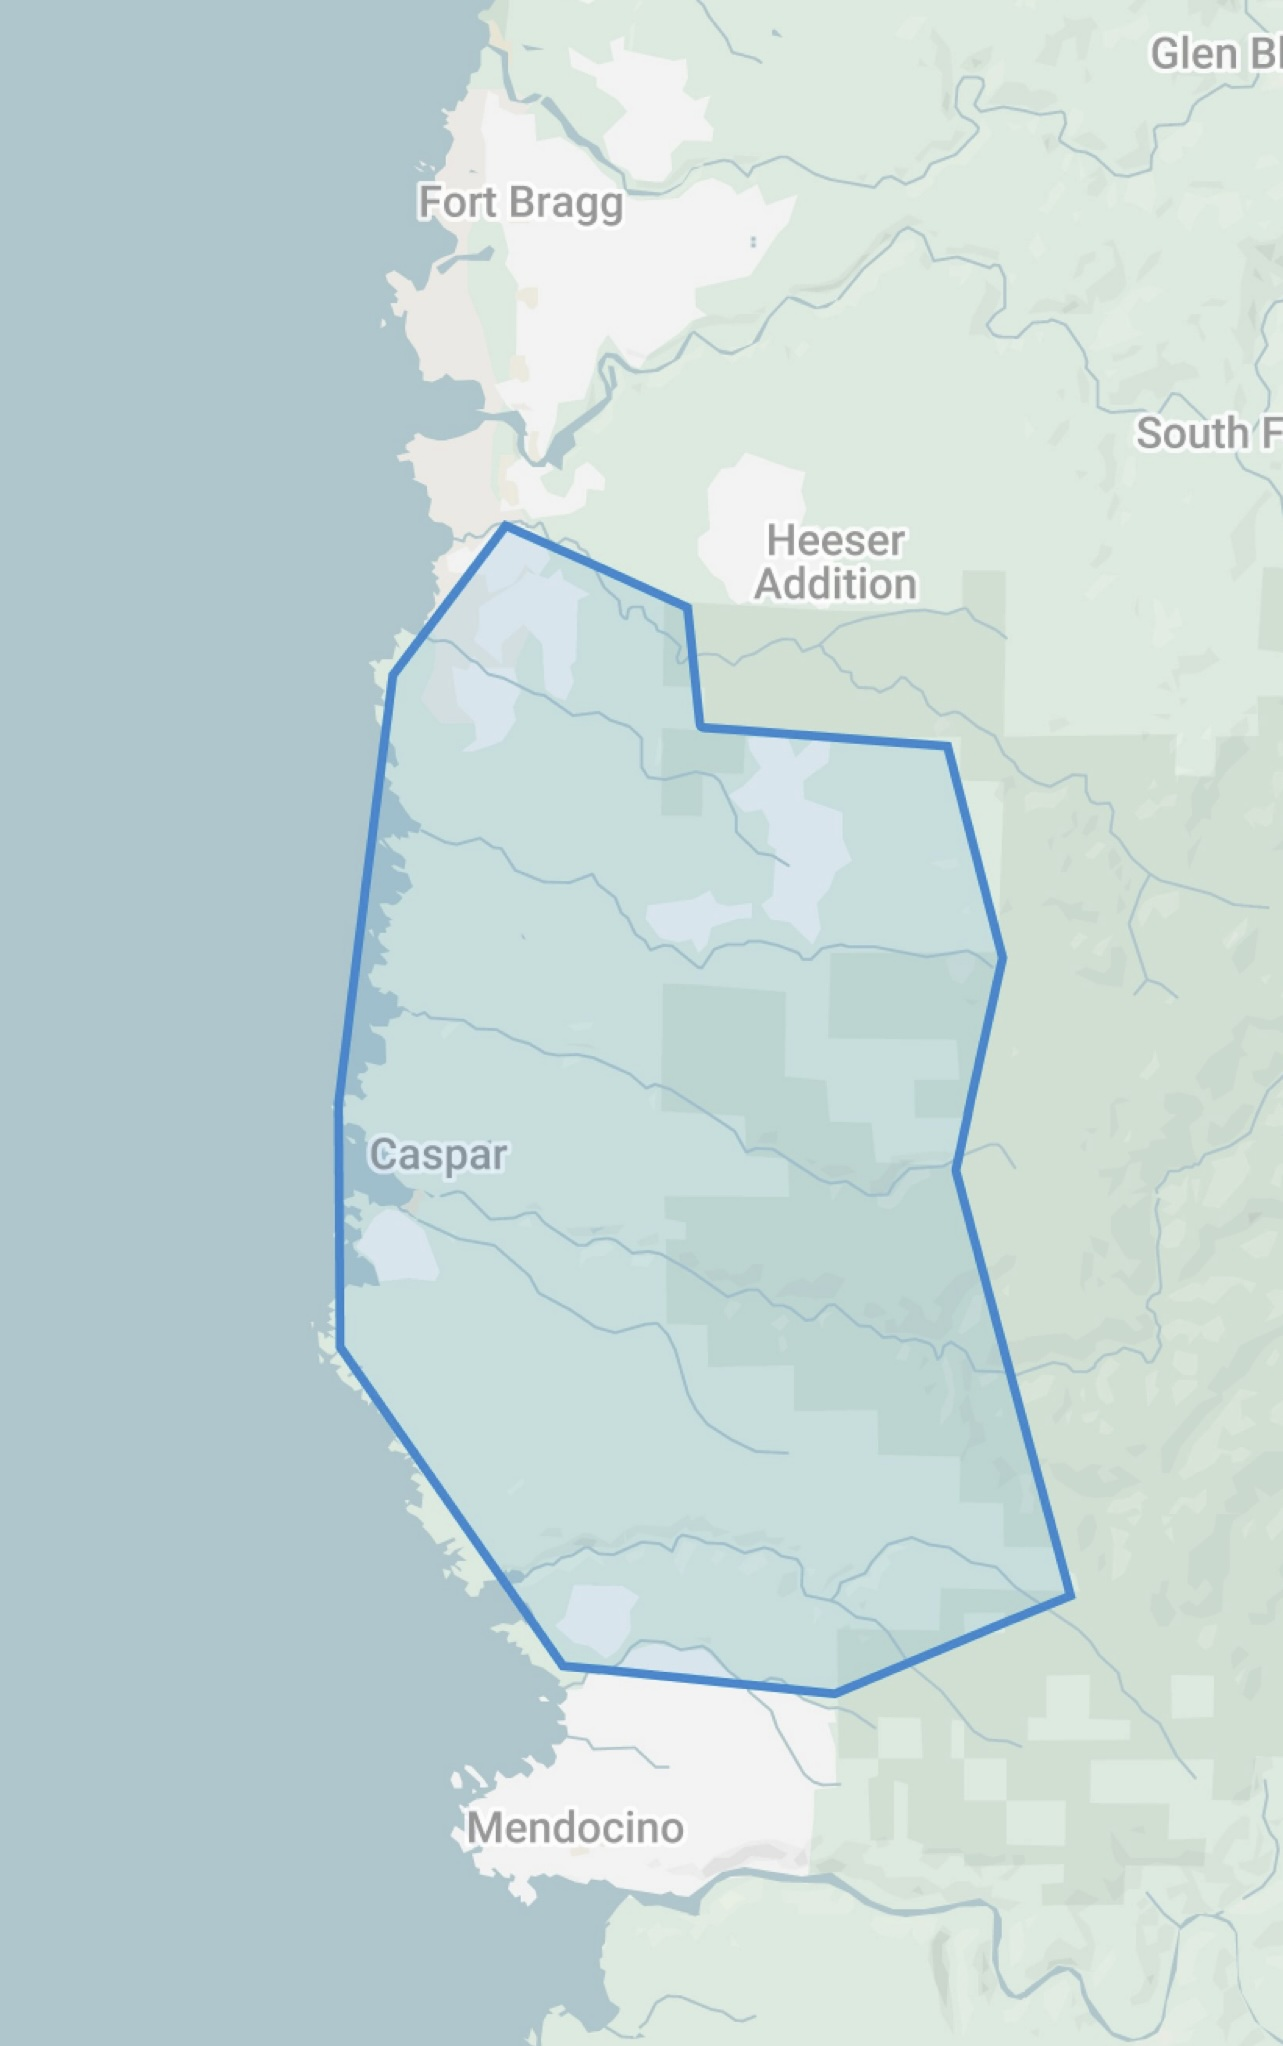
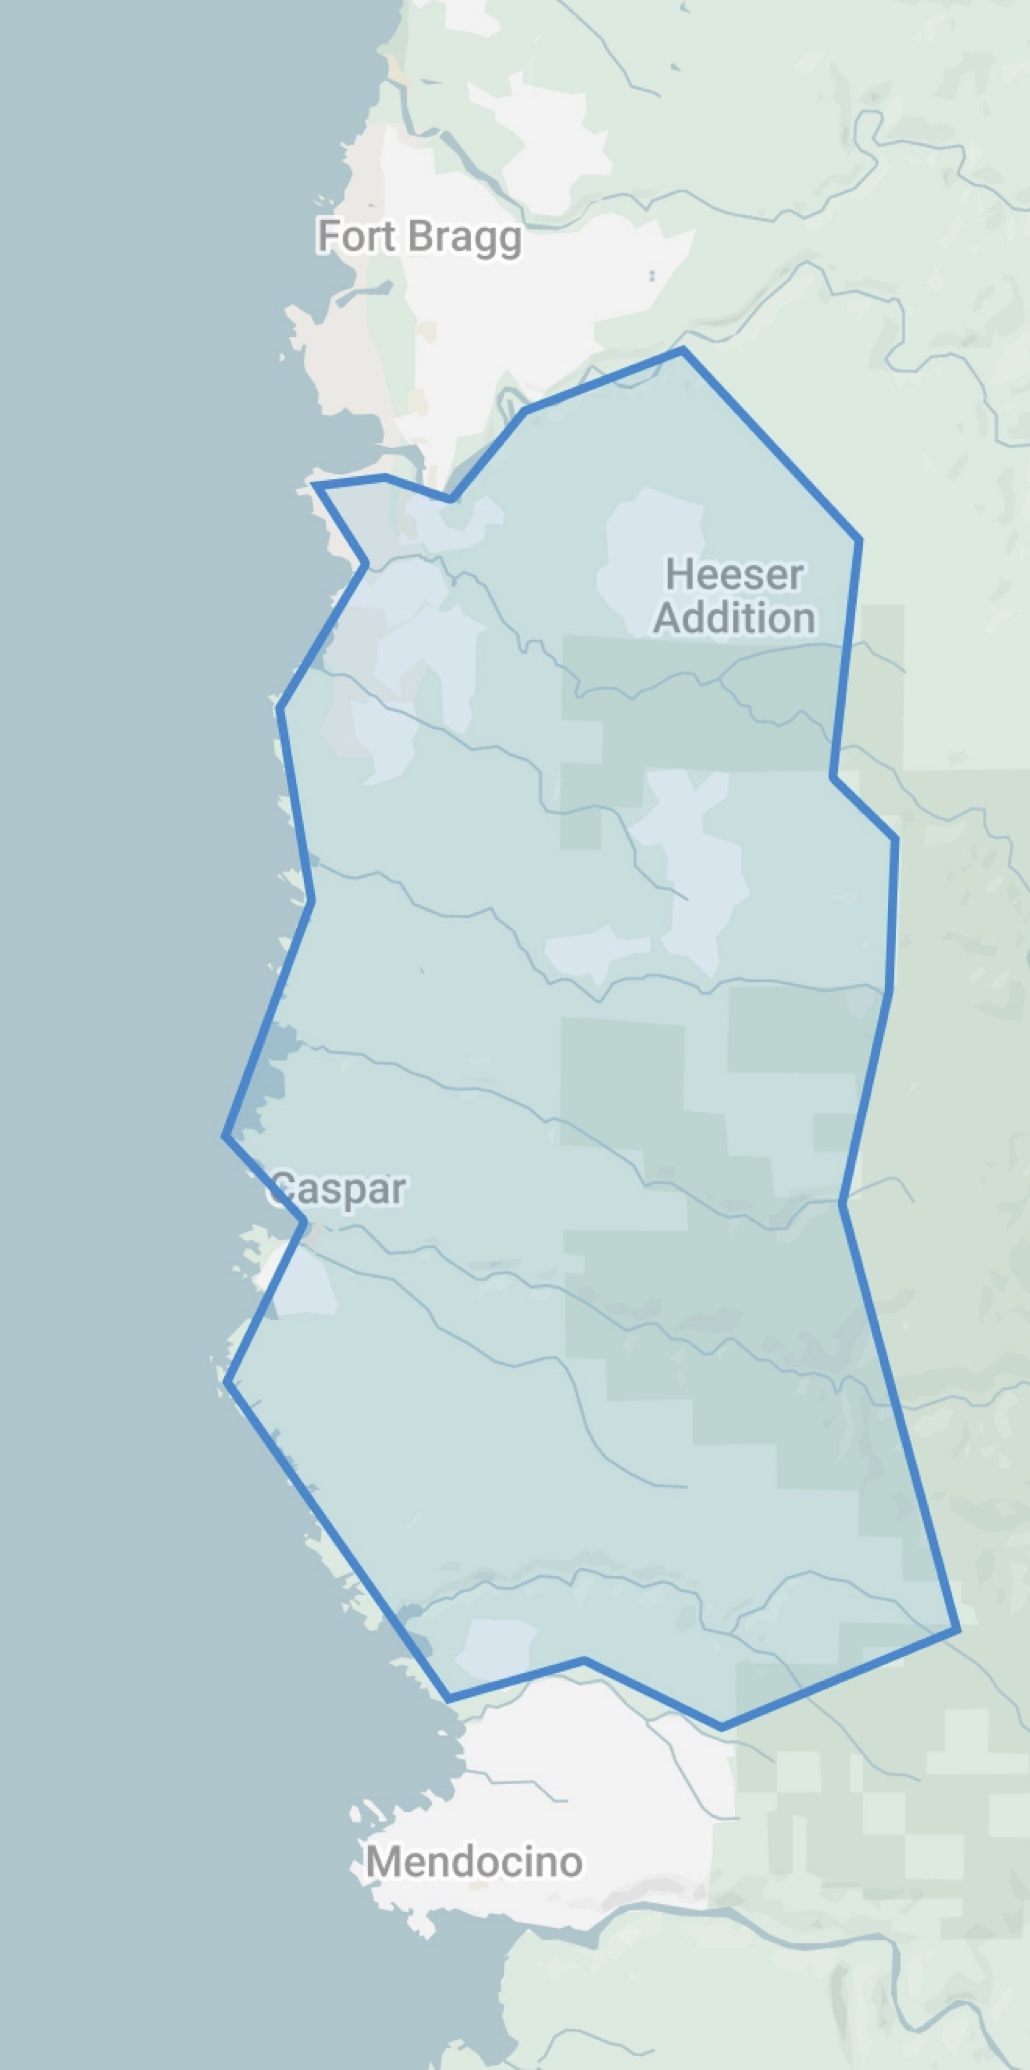
politic

diff --git a/site/index.html b/site/index.html
@@ -179,6 +179,7 @@
         </nav>
         
         <section id="politics" class="content-section active">
+
           <h2 class="section-title">Politics</h2>
 
 	  <p>Caspar Water System is regulated by a number of public
@@ -204,15 +205,15 @@
 		be enacted to preserve the character of the
 		town.</em></p></div>
 
-	  <p>When we became owner of the Caspar Water property in
+	  <p>When we became owners of the Caspar Water property in
 	    2021, Mendocino had been having a bad
 	    drought. Economically speaking, the village in Mendocino
 	    turns water into money through its restaurants and hotels,
 	    and we received calls that summer from hotel investors and
 	    government economic development officers. People's wells
-	    were going dry, water trucks were hauling 50 mile
-	    round-trips fetching water for the coast, and Caspar has a
-	    surplus.</p>
+	    were going dry, water trucks were hauling 100 mile
+	    round-trips fetching water for the coast, and Caspar was
+	    running a surplus.</p>
 
 	  <h3>Caspar is a ghost town</h3>
 
@@ -222,14 +223,139 @@
 	  <p>A residential development built in the 1920s was still
 	    standing when the mill closed. Sixteen houses from this
 	    development were demolished in the 1960s to make way for
-	    Highway 1 when the Caspar Creek bridge was built. At least
-	    five more of these homes burned down in the 1970s, leaving
-	    only four homes from the original development today, still
-	    connected to the water system.</p>
+	    Highway 1 when the Caspar Creek bridge was built, and five
+	    more of these homes burned down in the 1970s.  Four homes
+	    from the original development are standing today.</p>
+
+	  <p>Development on the California coast is heavily
+	    restricted, aiming to limit change and preserve tourism
+	    value, and the regulation started immediately after a
+	    severe decline in Caspar. We have the appearance of a
+	    town, with a center and a dense cluster of houses, but
+	    many of the houses are vacant, dilapidated or condemned.
+	    Three of Caspar Water's service connections are not in use
+	    and three of them are short-term rentals or used as second
+	    homes.</p>
+
+	  <p>When the Coastal Commission sees a permit application in
+	    Caspar, they see a request for new development, and they
+	    follow the rules. When we're asked to do an archeological
+	    survey, we're surveying a place where people have lived
+	    continuously for over 100 years. When we're asked to do a
+	    botanical survey, we're surveying land that the lumber
+	    company <em>tore up</em>, covered in invasive species.</p>
+
+	  <p>In rural areas like Caspar, sewage is a problem. Modern
+	    planning code forces rural homes to be far apart, so that
+	    each can have its own septic field and a private
+	    well. Separately, we know that a drinking water source
+	    cannot be anywhere near a septic system. The problem of
+	    rebuilding Caspar is that many of our vacant houses lack
+	    both a water connection and enough land to place a septic
+	    field.</p>
+
+	  <p>To develop homes in Caspar village, we're going to need a
+	    sewage system.  To connect new homes to the water system
+	    requires replacing water mains and a new operating permit.
+	    To add the connection count needed to make the water and
+	    sewage systems sustainable, we will need zoning changes
+	    from the County, approval from the Coastal commission, and
+	    commitment from the land owners. Still, unless all of
+	    those homes are occupied by permanent residents, Caspar
+	    will continue having a surplus of water.<p>
+
+	  <p>Under the circumstances, Caspar is likely to remain a
+	    ghost town.  Highly scenic place.</p>
+
+	  <h3>Mendocino Coast: let's make a water district</h3>
+
+	  <p>Caspar is not the only Mendocino logging village with a
+	    historic water system.</p>
+
+	  <div class="indented"><p><b>Elk County Water District</b><br><em>
+		The Elk County Water District (ECWD) was formally created on
+		April 22, 1957, when the Mendocino County Board of
+		Supervisors issued a "Statement of Creation". The ECWD took
+		over an existing town water system that had been in
+		operation since before 1900.</em></p></div>
+
+            <div style="float: right; margin-left: 20px; max-width: 500px; text-align: center;">
+                <a href="./img/district-proposed.jpg" target="_blank">
+                    <img src="./img/district-proposed.jpg" alt="Proposed district boundary" style="width: 100%; height: auto; border-radius: 5px;">
+                </a>
+                <p style="font-size: 0.75rem; color: var(--caption-color); margin-top: 5px;">
+		  Proposed water district boundary, approximately 25 square miles.</p>
+            </div>
+
+	  <p><a href="https://norcalpublicmedia.org/2025022897573/news-feed/mendocino-county-supervisors-reject-ordinance-to-regular-water-extraction-and-selling">
+	      Mendocino supervisors have several times in recent years
+	      rejected proposed ordinance to restrict water hauling
+	      within the County.</a> Water districts present a different
+	      solution to this problem, because water districts can
+	      fund themselves, and because they present a local
+	      solution to a local problem. First, we should recognize
+	      that water hauling is two concerns in one: agricultural
+	      water and drinking water.</p>
+	    
+	  <p>A water district on the Mendocino coast stretching from
+	    Fort Bragg to Mendocino village, with Caspar at the
+	    center, would have the power to restrict water hauling
+	    within its boundary and to set terms for water use by
+	    short-term rentals, for example. At the same time,
+	    residents of the proposed water district would have access
+	    to safe drinking water hauled from its water trucking
+	    station at Fern Creek and Highway 1. A district of this
+	    size would absorb the Caspar South and Surfwood water
+	    systems.</p>
+
+	  <h3>Caspar: Let's have smart growth</h3>
+
+	  <p>The idea of a water district centered in Caspar is meant
+	    to solve a <em>cyclic dependency</em>.  Development
+	    depends on zoning, zoning depends on water, and water
+	    depends on re-development. A water district covering the
+	    mid-Mendocino Coast can solve the need for drinking water
+	    outside of just Caspar, and it would mean having a board
+	    of directors overseeing our shared water resource.
+	  </p>
+
+	  <p>The proposed water district could fund itself using
+	    long-term financial arrangements, solar and land-trust
+	    development on the land it would own, and it would turn a
+	    small profit from operating three water systems and direct
+	    water sales for qualified homes in the district.</p>
 
 	  <p>
-	  </p>
-	  
+	    With a water district in place, we can break the cyclic
+	    dependency using a special zoning district. The image
+	    below shows what it would look like to grow the Caspar
+	    Water system to 50 connections by permitting 10 new homes
+	    west of the highway, 5 new homes east of the highway, and
+	    connecting up to 25 existing homes within the sphere of
+	    influence. Caspar village residents would reduce their
+	    risk of septic contamination in their drinking water.<p>
+
+            <div style="max-width: 1200px; text-align: center;">
+                <a href="./img/system-proposed.jpg" target="_blank">
+                    <img src="./img/system-proposed.jpg" alt="Proposed water system" style="width: 100%; height: auto; border-radius: 5px;">
+                </a>
+                <p style="font-size: 0.75rem; color: var(--caption-color); margin-top: 5px;">
+		  Proposed 50-connection water system in the Caspar village.</p>
+            </div>
+
+	  <p>The Elk district has been led for many years by a man
+	    named Charlie Acker who is widely respected on the coast,
+	    but Elk is not our only model. Point Arena is another
+	    small historic public water system on the Mendocino Coast, 
+	    but its water system is owned and operated by a private
+	    individual named Billy Hay.</p>
+
+	  <p>Caspar will try to develop itself either way.  Form a
+	    water district and you will have a new public water supply
+	    on the Coast, you might even attract another
+	    Charlie. Don't form a water district and you have a just
+	    another private water system, you might even attract
+	    another Billy.</p>
 
         </section>
         
@@ -237,7 +363,9 @@
           <h2 class="section-title">Blog</h2>
 	  <p>🚧 Caspar Water doesn't have a blog about water in
 	    Caspar. If we did, there's surely a rumor or two, about
-	    wells going dry or drill-rigs spotted drilling new wells.</p>
+	    wells going dry or drill-rigs spotted drilling new
+	    wells. We could keep you posted on the proposed Fern Creek
+	    solar development.</p>
 
 	  <p>🚧 A blog about software, though? The owner/operator
 	    could tell you that he works in open-source software,
@@ -245,6 +373,7 @@
 	    OpenTelemetry project, and other things about himself. He
 	    could talk about what a free, open-source water operating
 	    system would look like.</p>
+
         </section>
 
         <section id="history" class="content-section">
@@ -269,24 +398,38 @@
             water system developed during this period served the
             community's growing needs.</p>
           
-            <p>Over the decades, our water system has evolved through
-              a number of ground water and surface water sources. Long-time
-              residents still recall the prominent three-level water
-              tower that once stood as a landmark in the community.</p>
+          <p>Over the decades, our water system has evolved through
+            a number of ground water and surface water sources. Long-time
+            residents still recall the prominent three-level water
+            tower that once stood as a landmark in the community.</p>
             
-            <p>When the lumber mill closed, many of the town's
-              original structures were dismantled, but the water
-              system infrastructure remained and continued to develop
-              to serve the changing community. Today's water system is
-              classified as a County "small water system", serving a
-              community with fewer than 15 connections.</p>
+          <p>When the lumber mill closed, many of the town's
+            original structures were dismantled, but the water
+            system infrastructure remained and continued to develop
+            to serve the changing community. Today's water system is
+            classified as a County "small water system", serving a
+            community with fewer than 15 connections.</p>
+	    
+	  <p>The Caspar duck pond, across Fern Creek Road from our
+	    former water trucking station, serves as a year-round
+	    reminder of Caspar's reputation for being wet. Many on the
+	    coast still remember the drought of 1975, recalling how
+	    Caspar gave away water that summer.</p>
 
-	    <p>Until 2010, the Caspar water system also operated a
-	      trucking station from a second well near Highway 1, but
-	      the system did not have sufficient treatment and was
-	      closed by the California division of drinking water.
-	      Today, the former trucking station and well are being
-	      used for goat farming.</p>
+	  <p>Mendocino village was impacted by the drought of 1975
+	    drought and in the 1980s the MCCSD performed
+	    a <em>conjunctive use study</em> in Caspar studying the
+	    potential to pipe water from Caspar to
+	    Mendocino. <a href="./img/MCCSD-conjunctive-use.pdf">We are
+	    fortunate to have a copy of the report</a>.
+	  </p>
+	    
+	  <p>Until 2010, the Caspar water system operated a trucking
+	    station from a second well near Highway 1, but the
+	    system did not have sufficient treatment and was closed
+	    by the California division of drinking water.  Today,
+	    the former trucking station and well are being used for
+	    goat farming.</p>
 
         </section>
         
@@ -322,18 +465,7 @@
                   delivers water using gravity feed with static
                   pressures between 35psi and 60psi.
                 </li>
-		<li><strong>Leakage:</strong> We estimate leakage at
-		  less than 100 gallons per day, which is
-		  substantially improved from years past.
-		</li>
             </ul>
-	    
-            <p>Our treatment system addresses two primary quality
-	      concerns. The raw water measures pH 5.9, which is
-	      slightly acidic and cause for concern because acidic
-	      water leaches copper and lead from metal pipes and
-	      fixtures. We also have relatively high organic iron
-	      content. </p>
 	    
             <p>The aeration process works by removing carbon dioxide
               from the water through natural off-gassing. It's the
@@ -354,10 +486,7 @@
 
 	    <p> In winter months, we serve approximately 800 gallons
 	      per day. In summer months, we serve approximately 2,000
-	      gallons per day. A test performed at our primary well in
-	      December 2020, at the tail end of a years-long drought,
-	      estimated that our system has a sustainable capacity to
-	      draw 8 gallons per minute.</p>
+	      gallons per day.</p>
 
 	</section>
 
@@ -369,26 +498,29 @@
 	    in its history. Our water treatment plant sits at the top of a
 	    hill spanning both the Jughandle creek and Caspar Creek
 	    watersheds, and Caspar Water's "sphere of influence"
-	    covers most of the area between these two bridges, both
-	    east and west of Highway 1.
+	    covers the the historic village.
 
-	  <p>The Caspar duck pond, across Fern Creek Road from our
-	    former water trucking station, serves as a year-round
-	    reminder of Caspar's reputation for being wet. Many on
-	    the coast still remember the drought of 1975, recalling
-	    how Caspar was giving away water that summer.</p>
+          <p>Our treatment system addresses two primary quality
+	    concerns. The raw water measures pH 5.9, which is
+	    slightly acidic and cause for concern because acidic
+	    water leaches copper and lead from metal pipes and
+	    fixtures. We also have relatively high organic iron
+	    content. </p>
 
-	  <p>Well tests at two of our wells support the claim that
-	    Caspar has a surplus of water for its current population.
-	    According to the results of a drawdown test at our primary
-	    well, we draw from an aquifer with transmissivity of 697
-	    ft²/day. "This is one of the highest transmissivities I
-	    have seen in this area."</p>
+	  <p>According to the results of a drawdown test at our
+	    primary well, we draw from an aquifer with transmissivity
+	    of 697 ft²/day. "This is one of the highest
+	    transmissivities I have seen in this area."</p>
 
-	  <p>Our water system owns the approximately 50 acres of
-	    former lumber company land on which it sits, including 18
-	    acres of pine/fir/redwood/eucalyptus on Caspar Orchard
-	    road surrounding the treatment plant.</p>
+	  <p>The test, performed at our primary well in December 2020
+	    at the tail end of a years-long drought, estimated that
+	    our system has a sustainable capacity to draw 8 gallons
+	    per minute from each of its two wells.<p>
+
+	  <p>It may help to think of 8 gallons per minute as 13
+	    acre/ft per year. For an 18 acre water system at this
+	    rate, we require 9 inches of rainfall to recharge into the
+	    aquifer.</p>
 	
 	</section>
 	